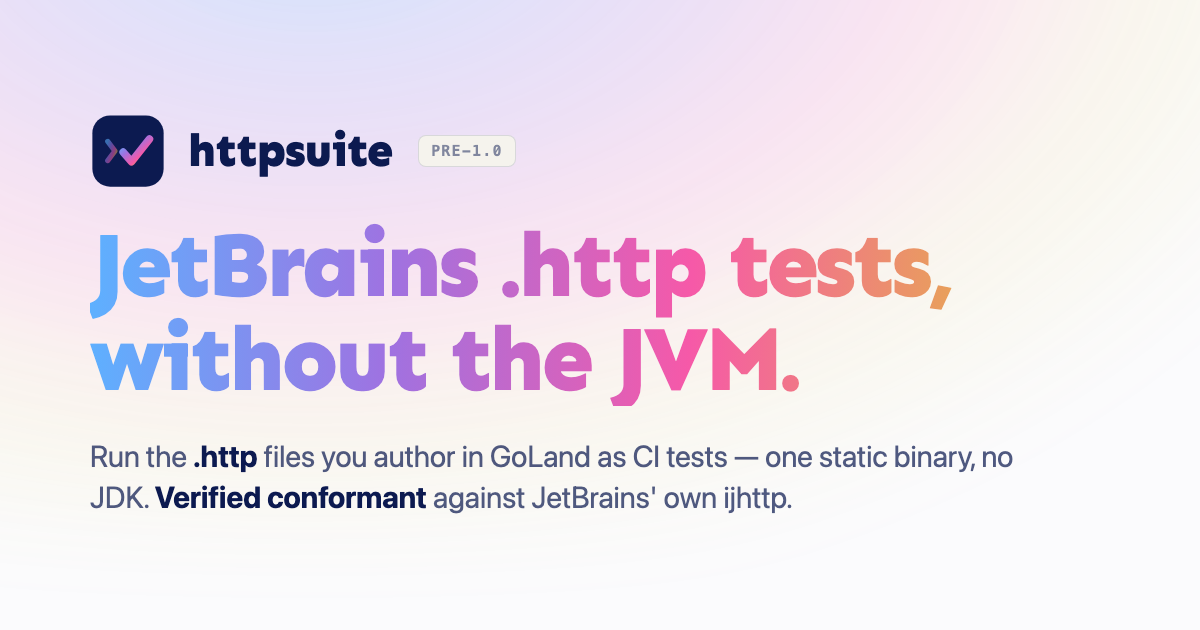
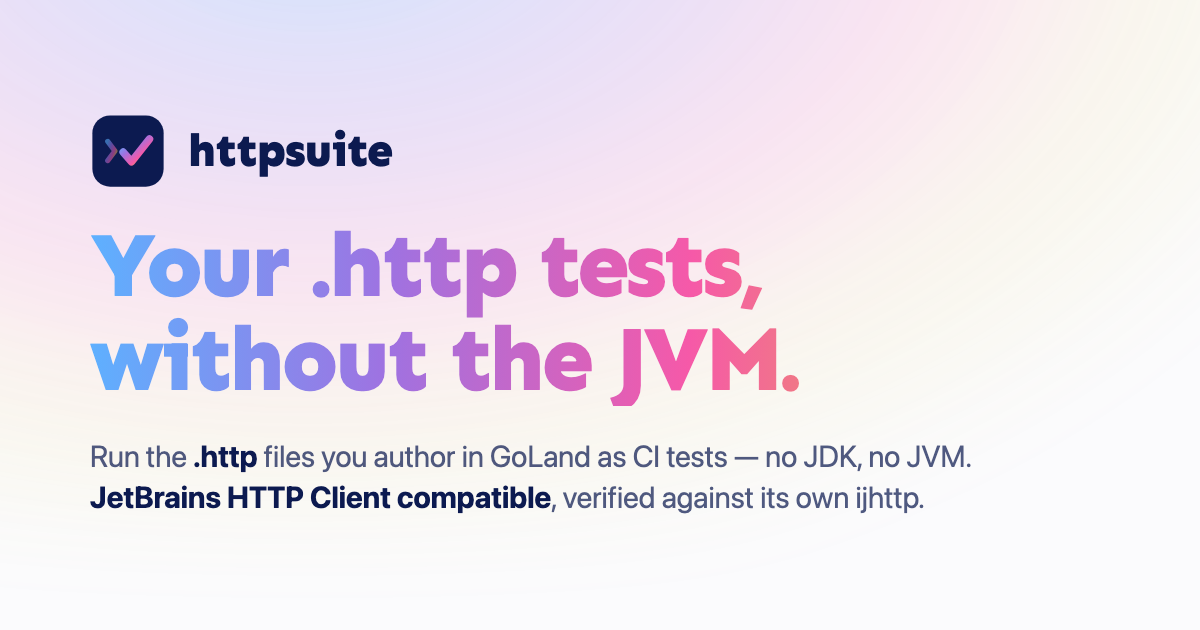
update the site to reflect the latest state of the app

Changed region(s): [[0.0617, 0.3619, 0.8017, 0.5127], [0.0617, 0.6937, 0.8633, 0.8143], [0.3392, 0.2111, 0.4317, 0.2714]]

diff --git a/index.html b/index.html
@@ -3,8 +3,8 @@
 <head>
 <meta charset="utf-8">
 <meta name="viewport" content="width=device-width, initial-scale=1">
-<title>httpsuite — run JetBrains .http tests in CI, without the JVM</title>
-<meta name="description" content="httpsuite runs the .http files you author in GoLand — pre-request scripts, response handlers, client.test assertions — as CI tests. A single static binary, no JDK, no CGO. Verified conformant against JetBrains' own ijhttp.">
+<title>httpsuite — run .http API tests in CI, without the JVM</title>
+<meta name="description" content="httpsuite runs the .http files you author in GoLand — pre-request scripts, response handlers, client.test assertions — as CI tests, with no JDK to install and no JVM to babysit. Verified conformant against JetBrains' own ijhttp.">
 <meta name="theme-color" content="#FBFBFD">
 <meta name="color-scheme" content="light">
 
@@ -14,13 +14,13 @@
 
 <link rel="canonical" href="https://httpsuite.dev/">
 <meta property="og:title" content="httpsuite">
-<meta property="og:description" content="Run JetBrains .http tests in CI, without the JVM. A single static binary, verified conformant against ijhttp.">
+<meta property="og:description" content="Run .http API tests in CI, without the JVM. JetBrains HTTP Client compatible, verified conformant against ijhttp.">
 <meta property="og:type" content="website">
 <meta property="og:url" content="https://httpsuite.dev/">
 <meta property="og:image" content="https://httpsuite.dev/og-image.png">
 <meta name="twitter:card" content="summary_large_image">
 <meta name="twitter:title" content="httpsuite">
-<meta name="twitter:description" content="Run JetBrains .http tests in CI, without the JVM.">
+<meta name="twitter:description" content="Run .http API tests in CI, without the JVM. JetBrains HTTP Client compatible.">
 <meta name="twitter:image" content="https://httpsuite.dev/og-image.png">
 
 <link rel="preconnect" href="https://fonts.googleapis.com">
@@ -377,7 +377,6 @@ footer { border-top: 1px solid var(--hairline); padding: 32px 0 48px; color: var
         <a href="#" class="brand">
             <img src="favicon.svg" alt="" class="brand-logo">
             httpsuite
-            <span class="version-pill">pre-1.0</span>
         </a>
         <div class="nav-links">
             <a href="#how">How it works</a>
@@ -391,15 +390,15 @@ footer { border-top: 1px solid var(--hairline); padding: 32px 0 48px; color: var
 <header class="hero">
     <div class="container hero-inner">
         <img src="favicon.svg" alt="httpsuite" class="hero-logo">
-        <h1>JetBrains .http tests,<br>without the JVM.</h1>
+        <h1>Your .http tests,<br>without the JVM.</h1>
         <p class="lead">
             httpsuite runs the <code>.http</code> files you already author in GoLand or VS Code —
-            pre-request scripts, response handlers, <code>client.test</code> assertions and all —
-            as tests in CI. One static binary. No JDK, no CGO, no container bloat.
+            pre-request scripts, response handlers, <code>client.test</code> assertions and all — as
+            tests in CI. Plain text in your repo, run with no JDK to install and no JVM to babysit.
         </p>
         <div class="verified">
             <svg viewBox="0 0 24 24" fill="none" stroke="currentColor" stroke-width="2.5" stroke-linecap="round" stroke-linejoin="round"><polyline points="20 6 9 17 4 12"/></svg>
-            <span><strong>Verified conformant</strong> against JetBrains' own <code>ijhttp</code></span>
+            <span><strong>JetBrains HTTP Client compatible</strong> — verified conformant against its own <code>ijhttp</code></span>
         </div>
         <div class="hero-ctas">
             <a class="btn btn-primary" href="#install">Install</a>
@@ -434,14 +433,15 @@ footer { border-top: 1px solid var(--hairline); padding: 32px 0 48px; color: var
 
 <section class="problem">
     <div class="container">
-        <span class="eyebrow">The problem</span>
-        <h2>API tests shouldn't drag a JVM into CI.</h2>
+        <span class="eyebrow">The case for .http</span>
+        <h2>API tests belong in your repo.</h2>
         <p class="prose">
-            The JetBrains HTTP Client is a great way to author and debug API requests — but running
-            those same <code>.http</code> files in CI means shipping <code>ijhttp</code> and a
-            <strong>JDK 25</strong> into every pipeline and container image. httpsuite runs the
-            identical files as a single ~14&nbsp;MB static binary: the same scripts, the same
-            assertions, none of the runtime.
+            The requests you use to build and debug an API are worth keeping — but too often they
+            live in a GUI or a cloud workspace, drifting out of sync with the code they test.
+            <code>.http</code> files put them back where they belong: <strong>plain text, versioned
+            in git, reviewed in pull requests.</strong> httpsuite runs those same files in CI — the
+            identical scripts and assertions you ran in your IDE — with nothing to install: no JDK,
+            no Node, no runtime to provision, patch, and wait on.
         </p>
 
         <div class="problem-grid">
@@ -451,7 +451,7 @@ footer { border-top: 1px solid var(--hairline); padding: 32px 0 48px; color: var
             </div>
             <div class="problem-card">
                 <div class="label">What it doesn't need</div>
-                <p>No JVM, no CGO, no daemon. A single static binary that runs on macOS, Windows, and any Linux — Alpine/musl, distroless, and <code>FROM scratch</code> containers included.</p>
+                <p>No JVM to provision, no runtime to keep patched, no daemon. It runs wherever your CI already does — macOS, Windows, and any Linux, down to Alpine/musl, distroless, and <code>FROM scratch</code> images.</p>
             </div>
         </div>
     </div>
@@ -468,8 +468,8 @@ footer { border-top: 1px solid var(--hairline); padding: 32px 0 48px; color: var
                 <div class="feature-icon">
                     <svg viewBox="0 0 24 24" fill="none" stroke="currentColor" stroke-width="2" stroke-linecap="round" stroke-linejoin="round"><path d="M12 2l9 4-9 4-9-4 9-4z"/><path d="M3 10l9 4 9-4"/><path d="M3 14l9 4 9-4"/></svg>
                 </div>
-                <h3>One static binary</h3>
-                <p>Pure Go, no CGO, no JVM. ~14&nbsp;MB, statically linked, cross-compiles to macOS, Windows, and every Linux arch. Drops into a distroless or scratch image unchanged.</p>
+                <h3>No JVM to babysit</h3>
+                <p>Nothing to install, provision, or keep patched. Where <code>ijhttp</code> needs a JDK&nbsp;25 in every image, httpsuite is one small binary that drops into distroless or <code>scratch</code> unchanged.</p>
             </div>
 
             <div class="feature">
@@ -501,7 +501,7 @@ footer { border-top: 1px solid var(--hairline); padding: 32px 0 48px; color: var
                     <svg viewBox="0 0 24 24" fill="none" stroke="currentColor" stroke-width="2" stroke-linecap="round" stroke-linejoin="round"><rect x="3" y="3" width="7" height="7" rx="1"/><rect x="14" y="3" width="7" height="7" rx="1"/><rect x="3" y="14" width="7" height="7" rx="1"/><rect x="14" y="14" width="7" height="7" rx="1"/></svg>
                 </div>
                 <h3>Suite orchestration</h3>
-                <p>An <code>httpsuite.yaml</code> groups files, runs them in parallel or serial with per-group timeouts, and layers <code>{{variables}}</code>. Or just point it at a directory.</p>
+                <p>An <code>httpsuite.yaml</code> groups files (parallel or serial, per-group timeouts), runs data-driven rows from inline tables, JSON or CSV, retries a request until it passes, and shares one logged-in session across a group's <code>setup:</code> and files. Or just point it at a directory.</p>
             </div>
 
             <div class="feature">
@@ -510,6 +510,30 @@ footer { border-top: 1px solid var(--hairline); padding: 32px 0 48px; color: var
                 </div>
                 <h3>CI-native output</h3>
                 <p>Coloured and aligned on a terminal, plain and diffable with no TTY, and JUnit XML via <code>--report</code> for your CI dashboard. Exit&nbsp;0 pass, 1 fail, 2 setup error.</p>
+            </div>
+
+            <div class="feature">
+                <div class="feature-icon">
+                    <svg viewBox="0 0 24 24" fill="none" stroke="currentColor" stroke-width="2" stroke-linecap="round" stroke-linejoin="round"><line x1="4" y1="21" x2="4" y2="14"/><line x1="4" y1="10" x2="4" y2="3"/><line x1="12" y1="21" x2="12" y2="12"/><line x1="12" y1="8" x2="12" y2="3"/><line x1="20" y1="21" x2="20" y2="16"/><line x1="20" y1="12" x2="20" y2="3"/><line x1="1" y1="14" x2="7" y2="14"/><line x1="9" y1="8" x2="15" y2="8"/><line x1="17" y1="16" x2="23" y2="16"/></svg>
+                </div>
+                <h3>Your JetBrains environments</h3>
+                <p>Reads the same <code>http-client.env.json</code> and <code>.private.env.json</code> files GoLand uses — <code>$shared</code> and private overrides included — with <code>--env&nbsp;prod</code>. No re-keying config for CI.</p>
+            </div>
+
+            <div class="feature">
+                <div class="feature-icon">
+                    <svg viewBox="0 0 24 24" fill="none" stroke="currentColor" stroke-width="2" stroke-linecap="round" stroke-linejoin="round"><circle cx="12" cy="12" r="10"/><line x1="12" y1="8" x2="12" y2="16"/><line x1="8" y1="12" x2="16" y2="12"/></svg>
+                </div>
+                <h3>A superset of the format</h3>
+                <p>Everything the JetBrains client parses, plus things stock <code>ijhttp</code> won't: block comments, folded and spread headers, in-place response references, and lazy <code>@var&nbsp;:=</code> declarations. Files stay portable.</p>
+            </div>
+
+            <div class="feature">
+                <div class="feature-icon">
+                    <svg viewBox="0 0 24 24" fill="none" stroke="currentColor" stroke-width="2" stroke-linecap="round" stroke-linejoin="round"><path d="M10 13a5 5 0 0 0 7.54.54l3-3a5 5 0 0 0-7.07-7.07l-1.72 1.71"/><path d="M14 11a5 5 0 0 0-7.54-.54l-3 3a5 5 0 0 0 7.07 7.07l1.71-1.71"/></svg>
+                </div>
+                <h3>Variables &amp; chaining</h3>
+                <p>Dynamic <code>{{$uuid}}</code>/<code>{{$timestamp}}</code>, eager and lazy vars, a shared cookie jar, and in-place chaining like <code>{{login.response.body.$.token}}</code> — carry auth and IDs across requests without a line of script.</p>
             </div>
 
         </div>
@@ -618,14 +642,14 @@ go install github.com/uradical/httpsuite@latest</pre>
 <section id="install" class="install">
     <div class="container">
         <span class="eyebrow">Install</span>
-        <h2>One binary. No runtime.</h2>
+        <h2>No JDK required.</h2>
         <p class="prose" style="margin-left:auto;margin-right:auto;">
             Static binaries for macOS, Linux, and Windows. From source needs Go 1.26+; released
             binaries need nothing. MIT licensed.
         </p>
         <p class="dev-note" style="margin-left:auto;margin-right:auto;">
             <span class="dot"></span>
-            <span><strong>Pre-1.0.</strong> In active development &mdash; flags and conventions may change before v1.</span>
+            <span><strong>Actively developed.</strong> Flags and conventions may still change.</span>
         </p>
 
 <pre class="install-code">brew install uradical/tap/httpsuite

diff --git a/og-image.html b/og-image.html
@@ -76,9 +76,8 @@ p.lead b { color: var(--navy); font-weight: 700; }
         <path d="M28 33 L35 41 L50 22" fill="none" stroke="url(#g)" stroke-width="6.5" stroke-linecap="round" stroke-linejoin="round"/>
     </svg>
     <span class="name">httpsuite</span>
-    <span class="pill">pre-1.0</span>
 </div>
-<h1>JetBrains .http tests,<br>without the JVM.</h1>
-<p class="lead">Run the <b>.http</b> files you author in GoLand as CI tests — one static binary, no JDK. <b>Verified conformant</b> against JetBrains' own ijhttp.</p>
+<h1>Your .http tests,<br>without the JVM.</h1>
+<p class="lead">Run the <b>.http</b> files you author in GoLand as CI tests — no JDK, no JVM. <b>JetBrains HTTP Client compatible</b>, verified against its own ijhttp.</p>
 </body>
 </html>
